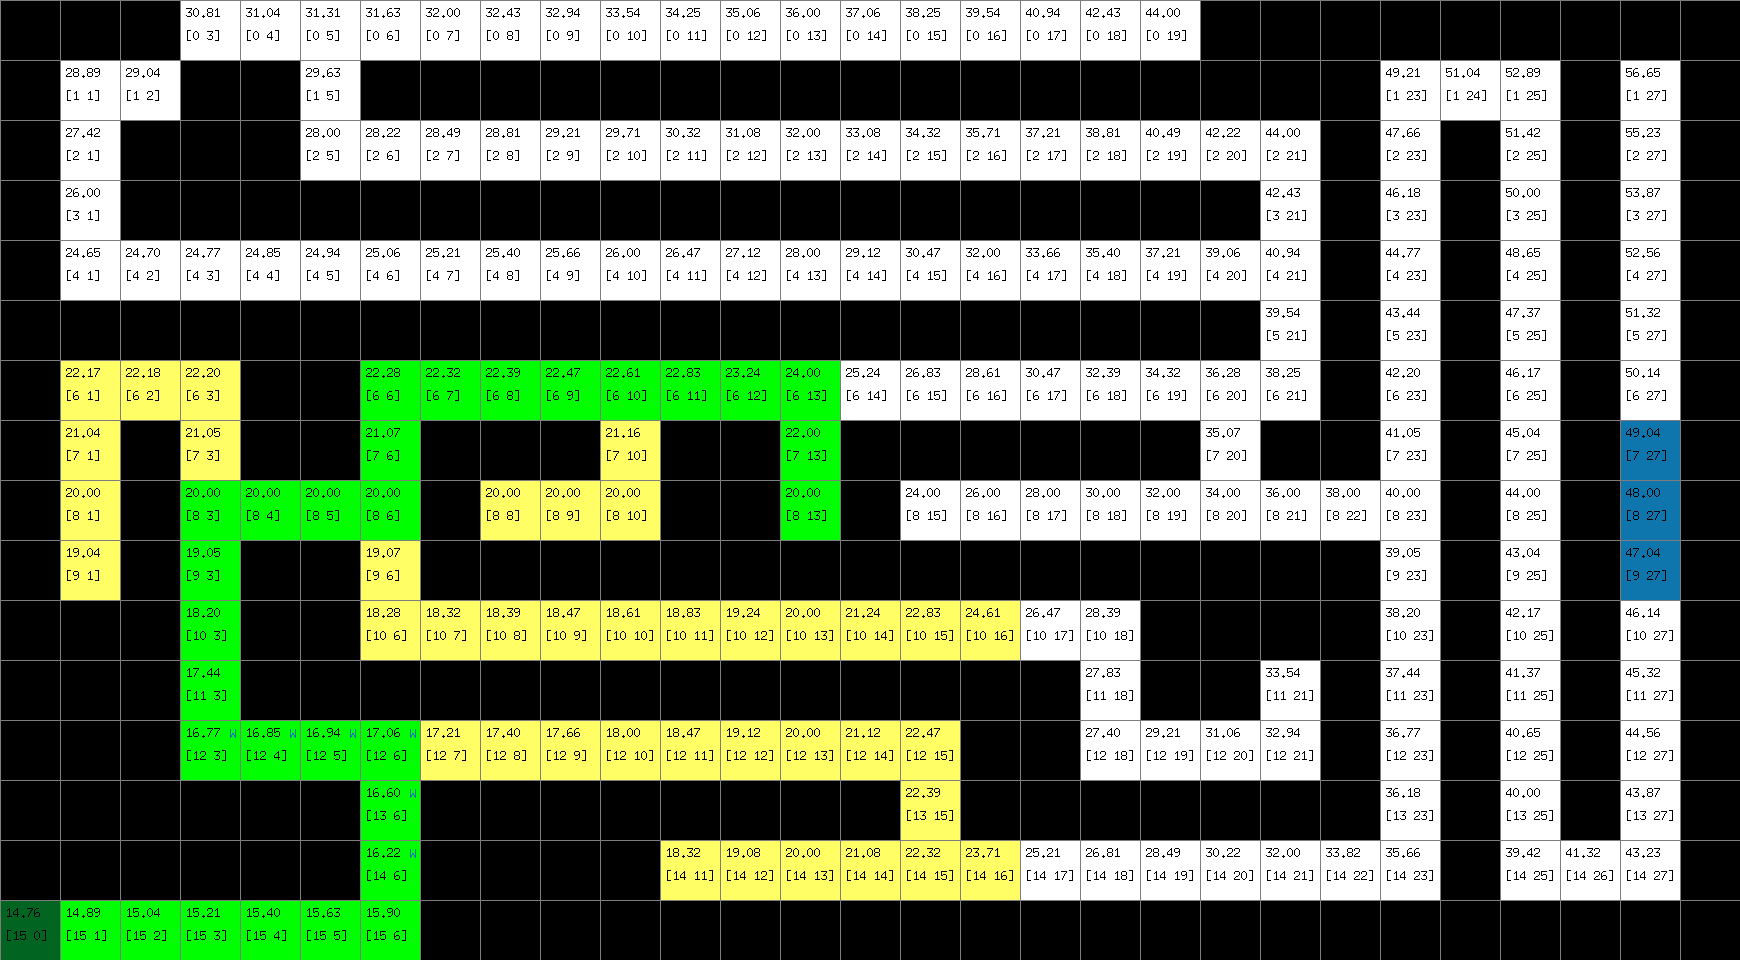
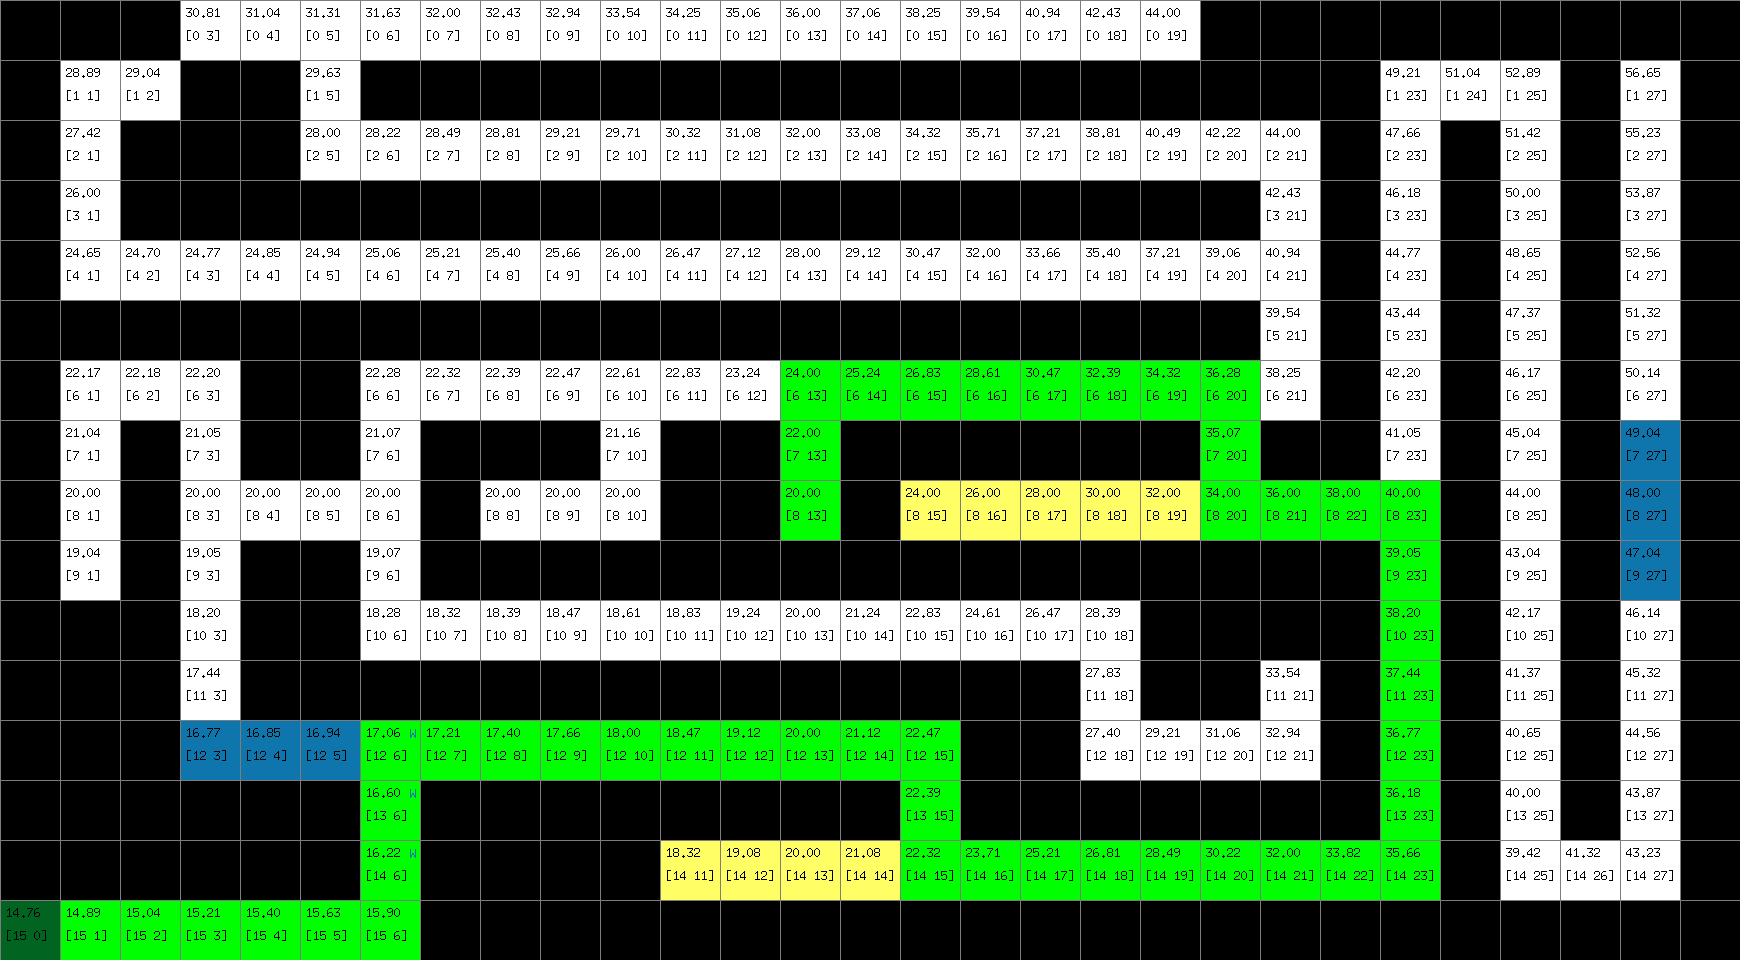
calculating the cost with obstructions

Changed region(s): [[0.031, 0.375, 0.8379, 0.9375]]

diff --git a/astar.go b/astar.go
@@ -9,6 +9,8 @@ import (
 	"slices"
 )
 
+const FloodedCost = 100
+
 type AstarSearch struct {
 	Frontier PriorityQueueAstar
 	Game     *Maze
@@ -21,6 +23,9 @@ func (d *AstarSearch) GetFrontier() []*Node {
 func (d *AstarSearch) Add(i *Node) {
 	i.CostToGoal = i.ManhattanDistance(d.Game.Start)
 	i.EstimatedCostToGoal = euclideanDist(i.State, d.Game.Goal) + float64(i.CostToGoal)
+	if i.State.Water {
+		i.EstimatedCostToGoal += FloodedCost
+	}
 	d.Frontier.Push(i)
 	heap.Init(&d.Frontier)
 }
@@ -144,6 +149,9 @@ func (d *AstarSearch) Neighbors(node *Node) []*Node {
 		if 0 <= x.State.Row && x.State.Row < d.Game.Height {
 			if 0 <= x.State.Col && x.State.Col < d.Game.Width {
 				if !d.Game.Walls[x.State.Row][x.State.Col].wall {
+					if d.Game.Walls[x.State.Row][x.State.Col].State.Water {
+						x.State.Water = true
+					}
 					neighbors = append(neighbors, x)
 				}
 			}

diff --git a/image.go b/image.go
@@ -65,11 +65,11 @@ func (g *Maze) OutputImage(fileName ...string) {
 			} else if col.State.Row == g.Goal.Row && col.State.Col == g.Goal.Col {
 				// Ending point.  Draw a red square.
 				g.drawSquare(col, p, img, red, cellSize, j*cellSize, i*cellSize)
-			} else if col.State.Water {
-				g.drawSquare(col, p, img, blue, cellSize, j*cellSize, i*cellSize)
 			} else if col.State == g.CurrentNode.State {
 				// Curren location. Draw in orange.
 				g.drawSquare(col, p, img, orange, cellSize, j*cellSize, i*cellSize)
+			} else if col.State.Water {
+				g.drawSquare(col, p, img, blue, cellSize, j*cellSize, i*cellSize)
 			} else if inExplored(Point{i, j, false}, g.Explored) {
 				// An explored cell.
 				g.drawSquare(col, p, img, yellow, cellSize, j*cellSize, i*cellSize)